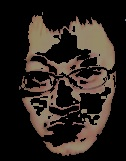
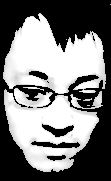
Arduino Code update
Combining Serial communication code with Tracking

diff --git a/Python Object Detection OpenCV/main.py b/Python Object Detection OpenCV/main.py
@@ -8,6 +8,7 @@ from HSV_filter import HSV_filter
 
 previous_time = 0                                       # Use for FPS
 os.chdir(os.path.dirname(os.path.abspath(__file__)))    # Change working dir to current folder
+
 window_capture_name = WindowCapture()                   # Window Capture None = desktop
 
 #tracking_Needle_img = tracking('Ball.jpg')             # Needle image for tracking the red ball in the ball gif
@@ -28,11 +29,11 @@ Replace the 'MyFace.jpg' with the name of your needle image
 
 # Ball HSV filter value
 #hsvfilter_data = HSV_filter(0, 57, 145, 26, 255, 255, 0, 0, 0, 40)         # Filter Param for red ball and gif 
-hsvfilter_data = HSV_filter(0, 62, 106, 110, 110, 255, 46, 16, 0, 106)      # Filter Param for camera of my face
+hsvfilter_data = HSV_filter(0, 0, 202, 179, 255, 255, 0, 255, 50, 0)      # Filter Param for camera of my face
 
 while True:                                         # While loop to display frames so that it is like a video    
     screenshot = window_capture_name.get_screenshot()                   # Take a screenshot using  window capture from win32 lib
-    
+
     fps = 1/( time() - previous_time )              # Calculate FPS 
     previous_time = time()
     # Location of fps string(int(x,y)), font, scale, color(BGR), thickness(int)
@@ -40,15 +41,15 @@ while True:                                         # While loop to display fram
     #cv.imshow('ScreenCapture', screenshot)          # Create window and display screenshot
 
     # Pre-processing image to increase frames
+    #processed_img = tracking_Needle_img.apply_HSV_filter(screenshot)        # Uncomment this and comment the line below to change filter param
     processed_img = tracking_Needle_img.apply_HSV_filter(screenshot, hsvfilter_data)
 
     track_obj = tracking_Needle_img.find_pos(processed_img, 0.5)               # Detection
     output_img = tracking_Needle_img.draw_rectangles(screenshot, track_obj)    # Output detection box
-    
-    #cv.imshow('Processed', processed_img)       # To see the image capture with the hsv filter on for comparison 
+
+    cv.imshow('Processed', processed_img)       # To see the image capture with the hsv filter on for comparison 
     cv.imshow('Matches', output_img)            # To show the image capture without the filter
 
     if cv.waitKey(1) == ord('q'):                   # Quit Program if q is pressed
             cv.destroyAllWindows()
             break
-

diff --git a/Python Object Detection OpenCV/tracking.py b/Python Object Detection OpenCV/tracking.py
@@ -1,6 +1,10 @@
 import cv2 as cv
 import numpy as np
+import serial
 from HSV_filter import HSV_filter
+
+serialcomm = serial.Serial('COM3', 9600)    # Change port to whatever arduino connected to
+serialcomm.timeout = 1
 
 class tracking:
     # Constant
@@ -11,6 +15,7 @@ class tracking:
     needle_width = 0
     needle_height = 0
     method = None
+
 
     # Constructor
     def __init__(self, needle_img_path, method=cv.TM_CCOEFF_NORMED):
@@ -51,6 +56,7 @@ class tracking:
 
     # Pass (x, y, w, h) params to draw rectangles: Reference ObjectTracking_Webcam.py file  
     def draw_rectangles(self, haystack_img, rectangles):
+        track_pos_X, track_pos_Y = 0, 0
         # https://docs.opencv.org/master/d6/d6e/group__imgproc__draw.html#gaf076ef45de481ac96e0ab3dc2c29a777
         line_color = (0, 0, 255)    # BGR color, 0,0,255 for red box
         line_type = cv.LINE_4       # Line type 4 = 4 connected lines
@@ -60,6 +66,22 @@ class tracking:
             top_left = (x, y)
             bottom_right = (x + w, y + h)
             cv.rectangle(haystack_img, top_left, bottom_right, line_color, lineType = line_type)    # Draw box
+            track_pos_X = top_left[0]                           # Center pos = 910     left = >900, right = <900
+            track_pos_Y = top_left[1]                           # Center pos = 320     Up = >320, Down = <320
+        #print(track_pos_X, track_pos_Y)
+
+        if (track_pos_X > 920):
+            temp = 1
+            serialcomm.write(str(chr(temp)).encode())          # Conver decimal to ASCII 
+            print(temp)
+        elif (track_pos_X < 900):
+            temp = 2
+            serialcomm.write(str(chr(temp)).encode())
+            print(temp)
+        elif (track_pos_X in range(900, 920)):
+            temp = 3
+            serialcomm.write(str(chr(temp)).encode())
+            print(temp)
         return haystack_img
 
     # Create GUI window with controls for adjusting color conversion in real-time: code copied from OpenCV tutorial for threshold inRange:

diff --git a/Python Object Detection OpenCV/window_capture.py b/Python Object Detection OpenCV/window_capture.py
@@ -13,7 +13,7 @@ class WindowCapture:
     # Constructor
     def __init__(self, window_name=None):           # Change to none to capture entire screen instead 
         if window_name is None:
-            self.window_Handle = win32gui.GetDesktopWindow()
+            self.window_Handle = win32gui.GetDesktopWindow()    # Captures the full size of the desktop window Can't figure out how to do 2nd monitor
         else:
             self.window_Handle = win32gui.FindWindow(None, window_name)     # Capture a specific window. Does not work correctly atm
             if not self.window_Handle:                                      # Exception if window not found

diff --git a/Python Object Detection OpenCV/Python Testing Files/MotorControl_Arduino.py b/Python Object Detection OpenCV/Python Testing Files/MotorControl_Arduino.py
@@ -5,11 +5,14 @@ serialcomm = serial.Serial('COM3', 9600)    # Change port to whatever arduino co
 serialcomm.timeout = 1
 
 while True:
-    i = input("input(on/off): ").strip()
+    temp = 'a'
+    serialcomm.write(temp.encode()) 
+
+"""     i = input("input(on/off): ").strip()
     if i == 'q':
         print("Program Finished")
         break
     serialcomm.write((i + '\n').encode()) 
     time.sleep(0.5)
     print(serialcomm.readline().decode('ascii')[:-1])
-serialcomm.close()
+serialcomm.close() """
